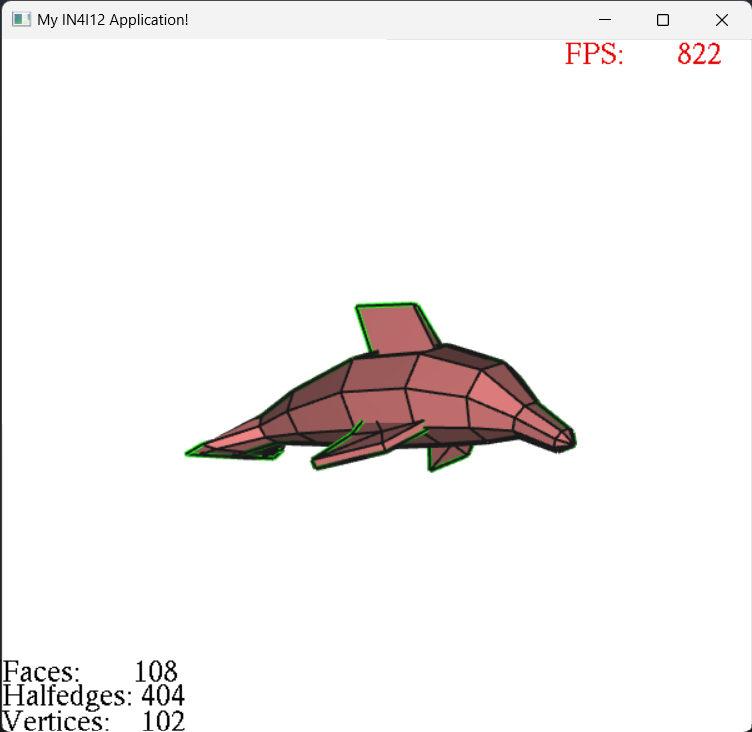
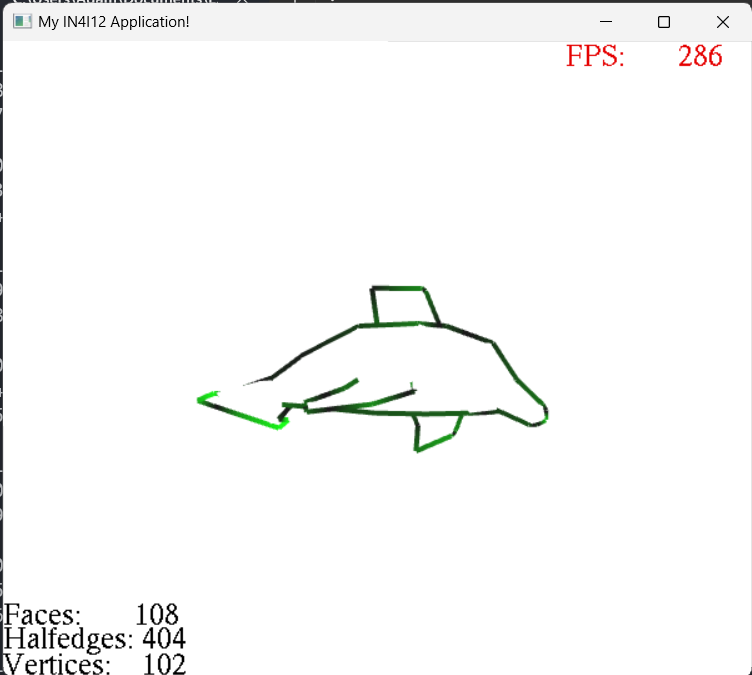
Update in my readme images

diff --git a/myproj/main.cpp b/myproj/main.cpp
@@ -394,7 +394,7 @@ void initMesh()
 
 	m = new myMesh();
 	drawwireframe = true;
-	if (m->readFile("cube.obj")) {
+	if (m->readFile("dolphin.obj")) {
 		m->computeNormals();
 		makeBuffers(m);
 	}

diff --git a/README.md b/README.md
@@ -27,34 +27,48 @@ Run the project with `Ctrl + F5`
 | Simplification | Yes  |  Medium   |:green_circle:|
 | ComputsNormals | Yes  |  Easy     |:green_circle:|
 | Silhouette | Yes      |  Easy     |:green_circle:|
-| Catmull-Clark | Yes   |  -        |:green_circle:|
+| Catmull-Clark | Yes   |  Hard        |:green_circle:|
 
 ### Tests
+
+I created a button to test my mesh.
+To deploy it `right click + Test`.
+
+<img src="images/Test-button.png" width="100">
+
+When you deploy it, you should have a diplay in a console like this.
+
+<img src="images/Test-screen.png" width="600">
+
 
 ## Work
 
 ### ReadFile
 
-<img src="images/ReadFile.png" width="500">
+<img src="images/ReadFile.png" width="300">
 
 ### ComputeNormals
-<img src="images/ComputeNormals.png" width="500">
+<img src="images/ComputeNormals.png" width="300">
 
 ### Triangulate
 
-<img src="images/Triangulate.png" width="500">
+<img src="images/Triangulate.png" width="300">
 
 ### Simplification
 
-<img src="images/SimplificationAfter.png" width="500">
+<img src="images/SimplificationAfter.png" width="300">
 
 ### Silhouette
 
-<img src="images/Silhouette.png" width="500">
+<img src="images/Silhouette.png" width="300">
 
 ### Catmull-Clark
 
-No photo for the moment
+<img src="images/Cat1.png" width="200">
+<img src="images/Cat2.png" width="200">
+<img src="images/Cat3.png" width="200">
+<img src="images/Cat4.png" width="200">
+
 
 
 
